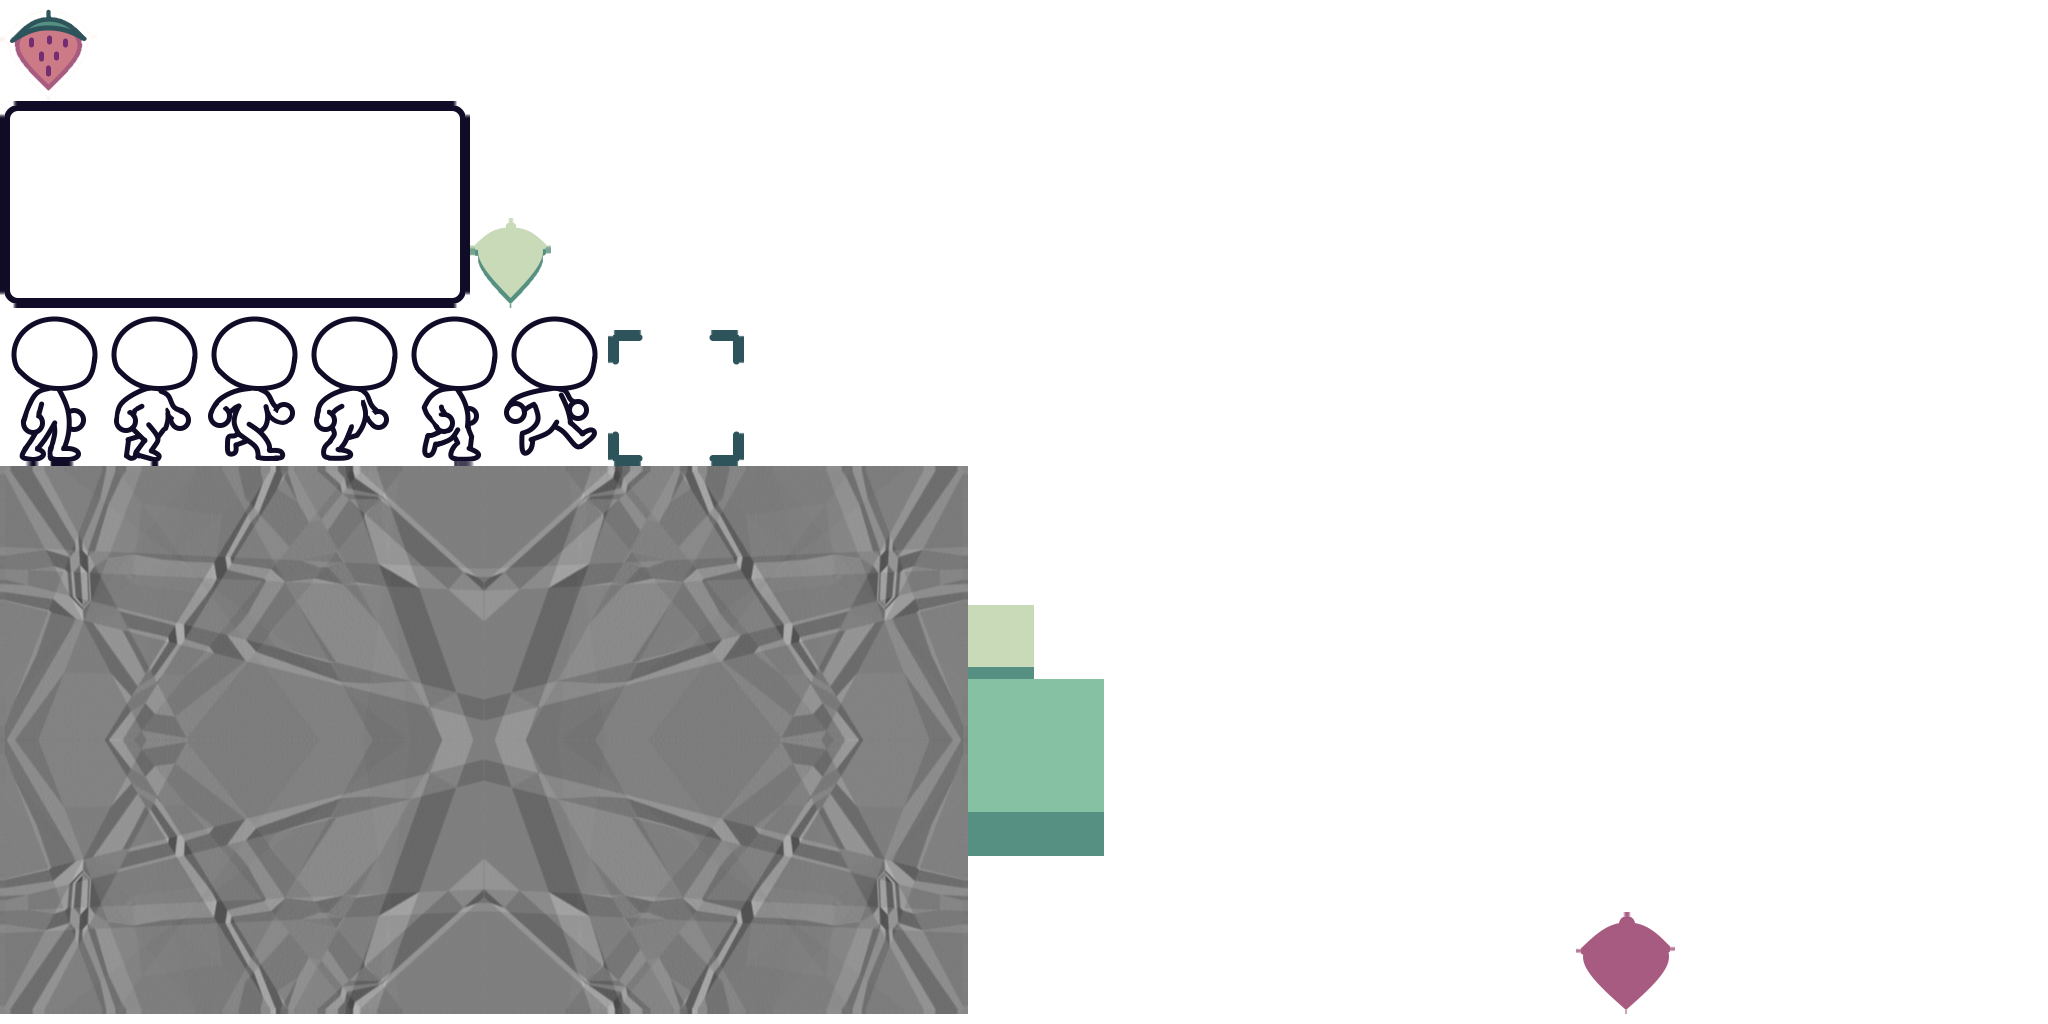
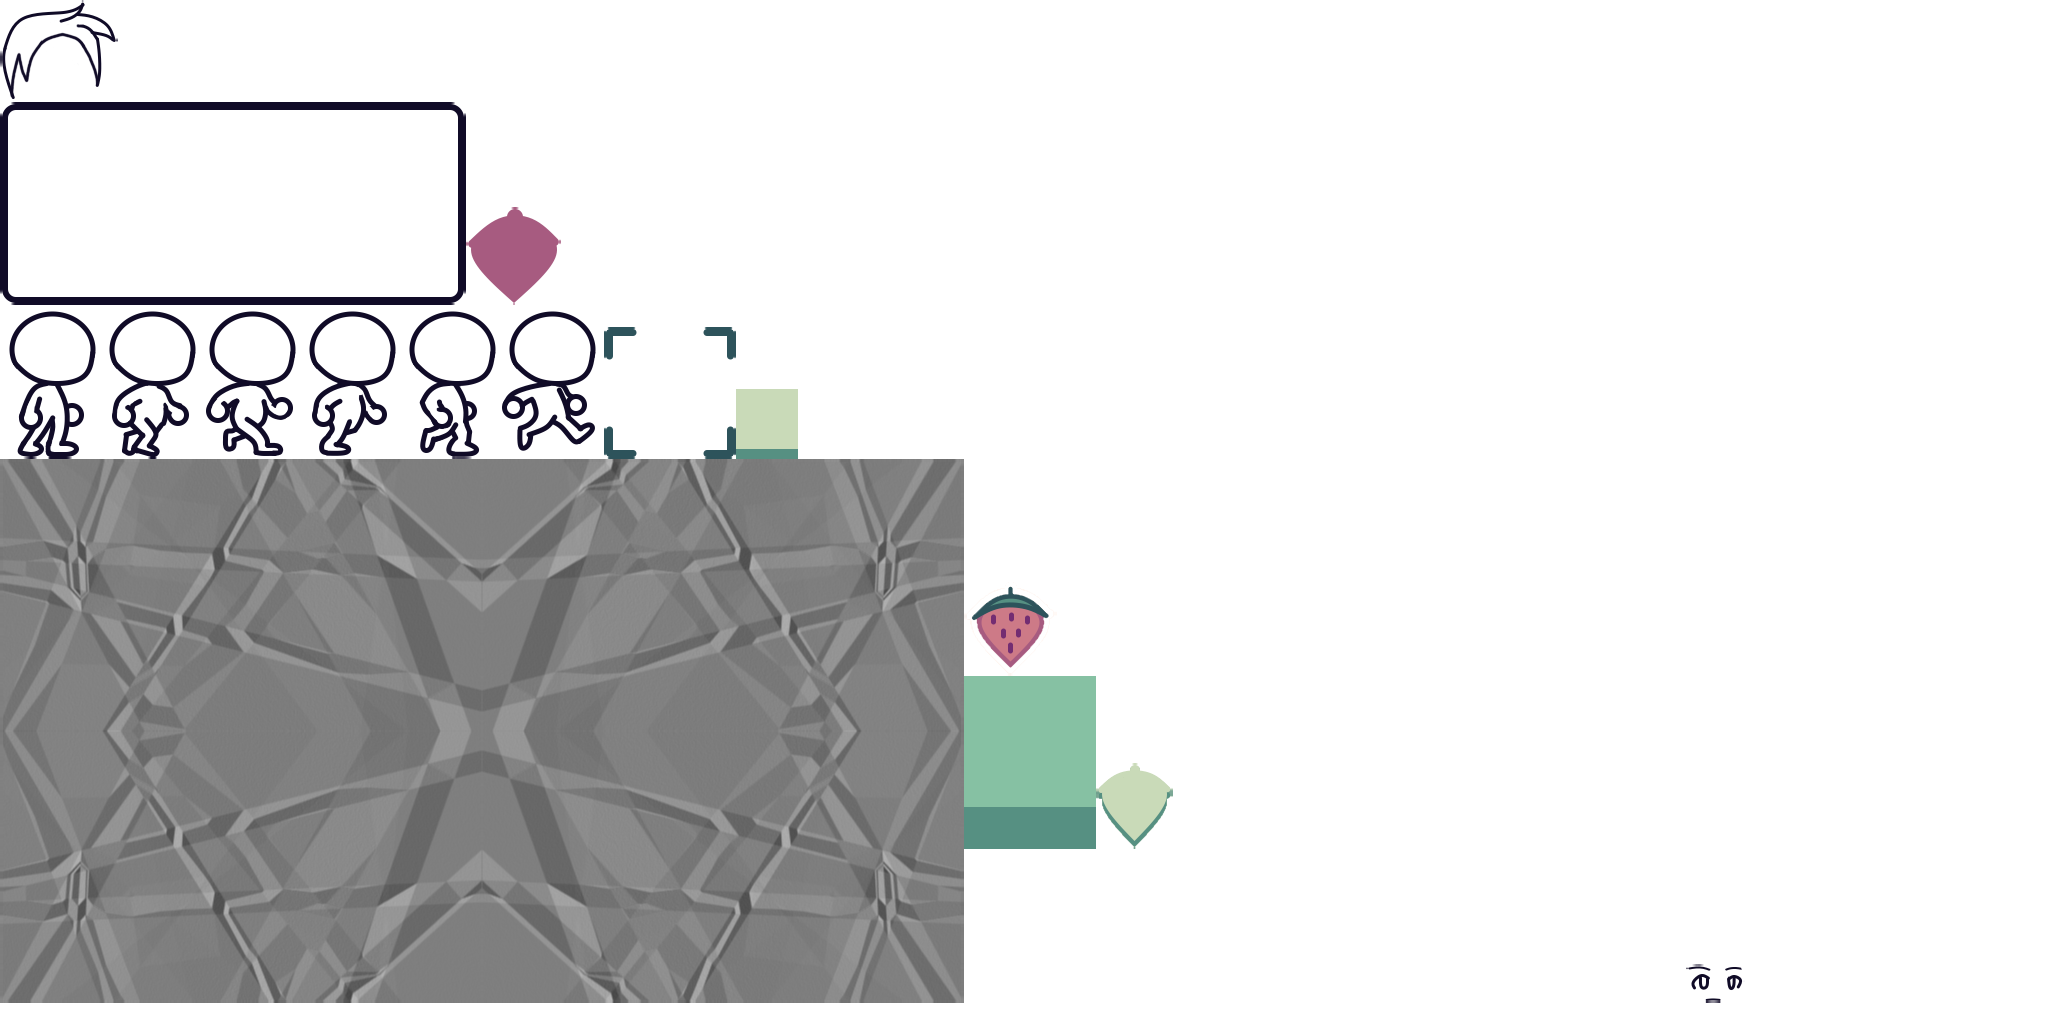
initial customization

diff --git a/core/src/main/java/com/distraction/cjspring26/entity/Player.java b/core/src/main/java/com/distraction/cjspring26/entity/Player.java
@@ -1,8 +1,10 @@
 package com.distraction.cjspring26.entity;
 
+import com.badlogic.gdx.graphics.Color;
 import com.badlogic.gdx.graphics.g2d.SpriteBatch;
 import com.badlogic.gdx.graphics.g2d.TextureRegion;
 import com.badlogic.gdx.math.MathUtils;
+import com.distraction.cjspring26.Constants;
 import com.distraction.cjspring26.Context;
 import com.distraction.cjspring26.Direction;
 import com.distraction.cjspring26.util.Animation;
@@ -16,10 +18,20 @@ public class Player extends TileEntity {
 
     public boolean debug;
 
-    private Animation<TextureRegion[]> animation;
+    private final Animation<TextureRegion[]> animation;
     private final TextureRegion[][] idle;
     private final TextureRegion[][] walk;
     private final TextureRegion[][] jump;
+
+    public Color skinColor = Constants.SKIN1;
+
+    private PlayerData.Face face = PlayerData.Face.DEFAULT;
+    private TextureRegion[] faceImages;
+    private Color eyeColor = Constants.WISTERIC_17[4];
+
+    private PlayerData.Hair hair = PlayerData.Hair.ANIME;
+    private TextureRegion[] hairImages;
+    private Color hairColor = Constants.WISTERIC_17[7];
 
     private boolean moving;
 
@@ -52,6 +64,27 @@ public class Player extends TileEntity {
             { outlineSprites[5], fillSprites[5] }
         };
         animation = new Animation<>(idle, 1 / 8f);
+
+        setFace(PlayerData.Face.DEFAULT, Constants.WISTERIC_17[16]);
+        setHair(PlayerData.Hair.ANIME, Constants.WISTERIC_17[0]);
+    }
+
+    public void setFace(PlayerData.Face face, Color color) {
+        this.face = face;
+        faceImages = new TextureRegion[] {
+            context.getImage(face.nameOutline),
+            context.getImage(face.nameFill)
+        };
+        this.eyeColor = color;
+    }
+
+    public void setHair(PlayerData.Hair hair, Color color) {
+        this.hair = hair;
+        hairImages = new TextureRegion[] {
+            context.getImage(hair.nameOutline),
+            context.getImage(hair.nameFill)
+        };
+        this.hairColor = color;
     }
 
     public void reset() {
@@ -126,7 +159,7 @@ public class Player extends TileEntity {
 
         // calculate jump
         if (!moving) jumping = false;
-        jumpy = (jumping ? 100 : 10) * MathUtils.sin(3.14f * getRemainingDistanceM() / totalDistance);
+        jumpy = (jumping ? 100 : 5) * MathUtils.sin(3.14f * getRemainingDistanceM() / totalDistance);
 
         if (jumping) {
             animation.set(jump);
@@ -140,12 +173,23 @@ public class Player extends TileEntity {
 
     @Override
     public void render(SpriteBatch sb) {
-        if (mirror) {
-            Utils.drawCenteredFlipped(sb, animation.get()[1], x, y + jumpy + OFFSET_Y);
-            Utils.drawCenteredFlipped(sb, animation.get()[0], x, y + jumpy + OFFSET_Y);
-        } else {
-            Utils.drawCentered(sb, animation.get()[1], x, y + jumpy + OFFSET_Y);
-            Utils.drawCentered(sb, animation.get()[0], x, y + jumpy + OFFSET_Y);
-        }
+        float y = this.y + jumpy + OFFSET_Y;
+        // body
+        sb.setColor(skinColor);
+        Utils.drawCentered(sb, animation.get()[1], x, y, mirror);
+        sb.setColor(Color.WHITE);
+        Utils.drawCentered(sb, animation.get()[0], x, y, mirror);
+
+        // face
+        sb.setColor(eyeColor);
+        Utils.drawCentered(sb, faceImages[1], x + face.x * (mirror ? -1 : 1), y + face.y, mirror);
+        sb.setColor(Color.WHITE);
+        Utils.drawCentered(sb, faceImages[0], x + face.x * (mirror ? -1 : 1), y + face.y, mirror);
+
+        // hair
+        sb.setColor(hairColor);
+        Utils.drawCentered(sb, hairImages[1], x + hair.x * (mirror ? -1 : 1), y + hair.y, mirror);
+        sb.setColor(Color.WHITE);
+        Utils.drawCentered(sb, hairImages[0], x + hair.x * (mirror ? -1 : 1), y + hair.y, mirror);
     }
 }

diff --git a/core/src/main/java/com/distraction/cjspring26/util/Utils.java b/core/src/main/java/com/distraction/cjspring26/util/Utils.java
@@ -11,16 +11,18 @@ public class Utils {
         sb.draw(image, x - w / 2, y - h / 2, w, h);
     }
 
+    public static void drawCentered(SpriteBatch sb, TextureRegion image, float x, float y, boolean flipped) {
+        float w = image.getRegionWidth();
+        float h = image.getRegionHeight();
+        float nx = flipped ? x + w / 2 : x - w / 2;
+        float nw = flipped ? -w : w;
+        sb.draw(image, nx, y - h / 2, nw, h);
+    }
+
     public static void drawCentered(SpriteBatch sb, TextureRegion image, float x, float y, float scale) {
         float w = image.getRegionWidth() * scale;
         float h = image.getRegionHeight() * scale;
         sb.draw(image, x - w / 2f, y - h / 2f, w, h);
-    }
-
-    public static void drawCenteredFlipped(SpriteBatch sb, TextureRegion image, float x, float y) {
-        float w = image.getRegionWidth();
-        float h = image.getRegionHeight();
-        sb.draw(image, x + w / 2, y - h / 2, -w, h);
     }
 
     public static void drawCenteredRotated(SpriteBatch sb, TextureRegion image, float x, float y, float deg) {

diff --git a/core/src/main/java/com/distraction/cjspring26/tile/MapData.java b/core/src/main/java/com/distraction/cjspring26/tile/MapData.java
@@ -53,14 +53,14 @@ public class MapData {
         toggles.add(new GridPoint2(8, 62));
         toggles.add(new GridPoint2(3, 54));
 
-//        collectibles.add(new GridPoint2(2, 1));
-//        collectibles.add(new GridPoint2(4, 21));
-//        collectibles.add(new GridPoint2(1, 35));
-//        collectibles.add(new GridPoint2(18, 43));
-//        collectibles.add(new GridPoint2(19, 18));
-//        collectibles.add(new GridPoint2(17, 28));
-//        collectibles.add(new GridPoint2(11, 47));
-//        collectibles.add(new GridPoint2(7, 49));
+        collectibles.add(new GridPoint2(2, 1));
+        collectibles.add(new GridPoint2(4, 21));
+        collectibles.add(new GridPoint2(1, 35));
+        collectibles.add(new GridPoint2(18, 43));
+        collectibles.add(new GridPoint2(19, 18));
+        collectibles.add(new GridPoint2(17, 28));
+        collectibles.add(new GridPoint2(11, 47));
+        collectibles.add(new GridPoint2(7, 49));
 
         strawberryToggles.add(new GridPoint2(10, 67));
     }

diff --git a/core/src/main/java/com/distraction/cjspring26/entity/PlayerData.java b/core/src/main/java/com/distraction/cjspring26/entity/PlayerData.java
@@ -1,0 +1,39 @@
+package com.distraction.cjspring26.entity;
+
+public class PlayerData {
+
+    private PlayerData() {}
+
+    public enum Face {
+        DEFAULT(1, 8, 25)
+        ;
+        public final String nameOutline;
+        public final String nameFill;
+        public final float x;
+        public final float y;
+
+        Face(int index, float x, float y) {
+            nameOutline = "faceo" + index;
+            nameFill = "facef" + index;
+            this.x = x;
+            this.y = y;
+        }
+    }
+
+    public enum Hair {
+        ANIME(1, 8, 47)
+        ;
+        public final String nameOutline;
+        public final String nameFill;
+        public final float x;
+        public final float y;
+
+        Hair(int index, float x, float y) {
+            nameOutline = "hairo" + index;
+            nameFill = "hairf" + index;
+            this.x = x;
+            this.y = y;
+        }
+    }
+
+}

diff --git a/core/src/main/java/com/distraction/cjspring26/Constants.java b/core/src/main/java/com/distraction/cjspring26/Constants.java
@@ -36,7 +36,12 @@ public class Constants {
     };
 
     public static final Color BLACK = WISTERIC_17[5];
-    public static final Color WATER = WISTERIC_17[12];
+    public static final Color WATER = Color.valueOf("63E2FF");//WISTERIC_17[12];
+
+    public static final Color SKIN0 = Color.WHITE;
+    public static final Color SKIN1 = WISTERIC_17[11];
+    public static final Color SKIN2 = WISTERIC_17[10];
+    public static final Color SKIN3 = WISTERIC_17[12];
 
     public static final Color TEXTURE_OPACITY = new Color(1, 1, 1, 0.1f);
 

diff --git a/core/src/main/java/com/distraction/cjspring26/entity/Dialog.java b/core/src/main/java/com/distraction/cjspring26/entity/Dialog.java
@@ -10,7 +10,6 @@ import com.badlogic.gdx.utils.Align;
 import com.distraction.cjspring26.Constants;
 import com.distraction.cjspring26.Context;
 import com.distraction.cjspring26.util.Utils;
-import com.sun.org.apache.bcel.internal.generic.POP;
 
 public class Dialog extends Entity {
 

diff --git a/core/src/main/java/com/distraction/cjspring26/screens/PlayScreen.java b/core/src/main/java/com/distraction/cjspring26/screens/PlayScreen.java
@@ -94,7 +94,7 @@ public class PlayScreen extends Screen {
 
         scene.render(sb);
 
-        textureBg.render(sb);
+//        textureBg.render(sb);
 
         sb.setProjectionMatrix(uiCam.combined);
         sb.setColor(Color.WHITE);
